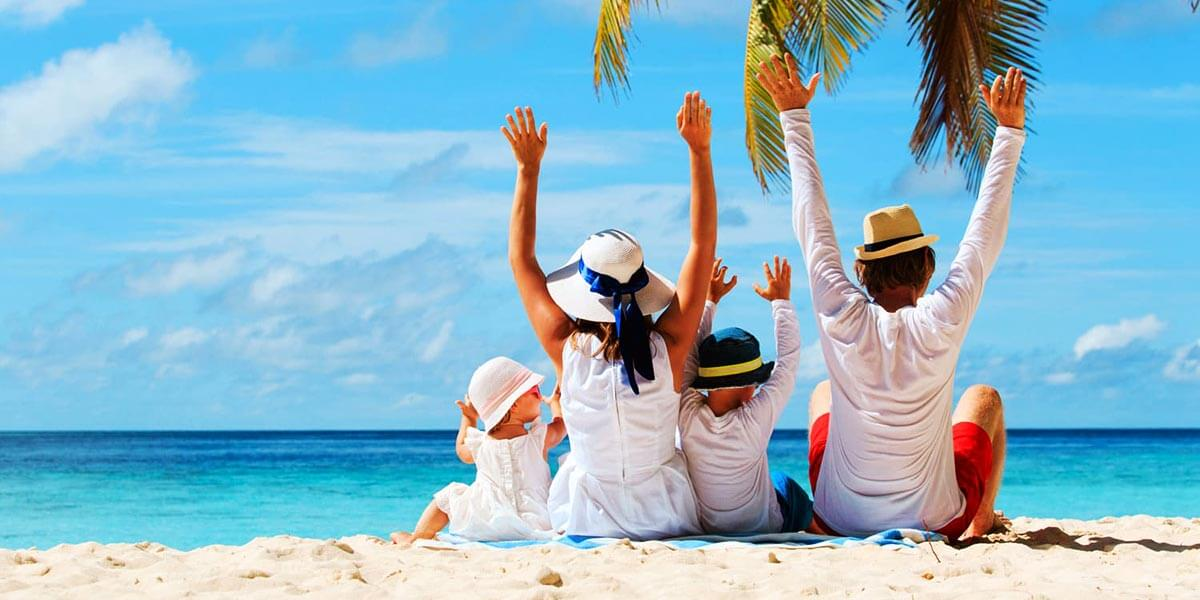
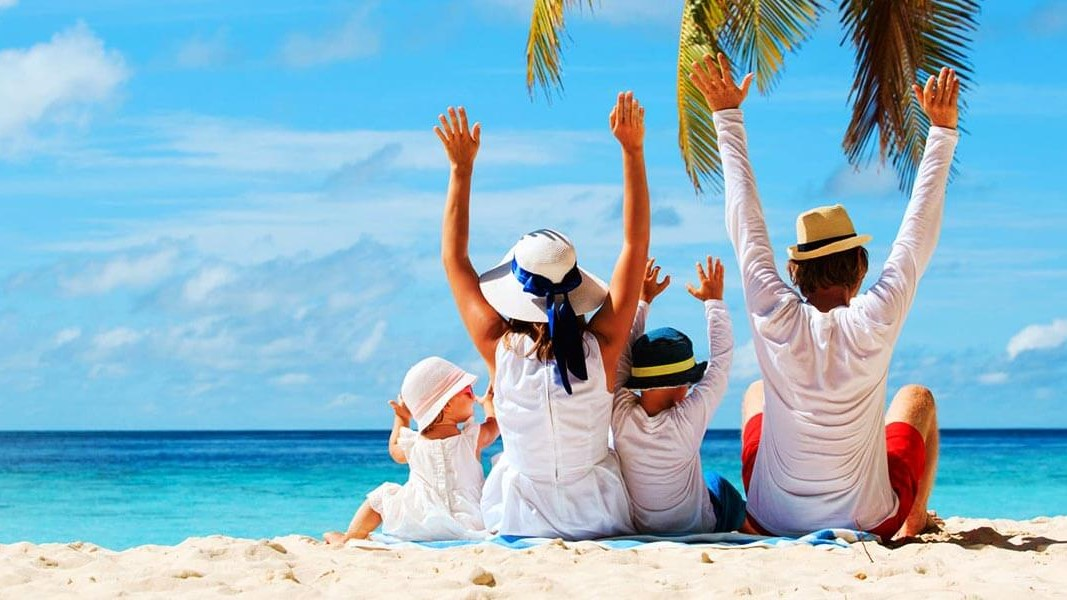
updated images size in carousel

diff --git a/src/Components/Carousel.js b/src/Components/Carousel.js
@@ -11,6 +11,12 @@ function Carousel() {
                             aria-label="Slide 2"></button>
                         <button type="button" data-bs-target="#carouselExampleIndicators" data-bs-slide-to="2"
                             aria-label="Slide 3"></button>
+                        <button type="button" data-bs-target="#carouselExampleIndicators" data-bs-slide-to="3"
+                            aria-label="Slide 4"></button>
+                        <button type="button" data-bs-target="#carouselExampleIndicators" data-bs-slide-to="4"
+                            aria-label="Slide 5"></button>
+                        <button type="button" data-bs-target="#carouselExampleIndicators" data-bs-slide-to="5"
+                            aria-label="Slide 6"></button>                            
                     </div>
                     <div className="carousel-inner">
                         <div className="carousel-item active">
@@ -21,6 +27,15 @@ function Carousel() {
                         </div>
                         <div className="carousel-item">
                             <img src="/carousel-img/carousel-image-3.jpg" className="d-block w-100" />
+                        </div>
+                        <div className="carousel-item">
+                            <img src="/carousel-img/carousel-image-4.jpg" className="d-block w-100" />
+                        </div>
+                        <div className="carousel-item">
+                            <img src="/carousel-img/carousel-image-5.jpg" className="d-block w-100" />
+                        </div>
+                        <div className="carousel-item">
+                            <img src="/carousel-img/carousel-image-6.jpg" className="d-block w-100" />
                         </div>
                     </div>
                     <button className="carousel-control-prev" type="button" data-bs-target="#carouselExampleIndicators"

diff --git a/src/Components/SocialFollow.js b/src/Components/SocialFollow.js
@@ -1,13 +1,13 @@
-import { FontAwesomeIcon } from "@fortawesome/react-fontawesome";
+// import { FontAwesomeIcon } from "@fortawesome/react-fontawesome";
 
 
 
-function SocialFollow(){
-    return (
-        <div>
-<h3>Social Follow</h3>
-        </div>
-    )
-}
+// function SocialFollow(){
+//     return (
+//         <div>
+// <h3>Social Follow</h3>
+//         </div>
+//     )
+// }
 
-export default SocialFollow;
+// export default SocialFollow;

diff --git a/src/Components/Category.js b/src/Components/Category.js
@@ -1,9 +1,11 @@
 
-function Carousel() {
+function Category() {
     return (
         <div>
-KAR
+
+
+
         </div>
     )
 }
-export default Carousel;
+export default Category;
